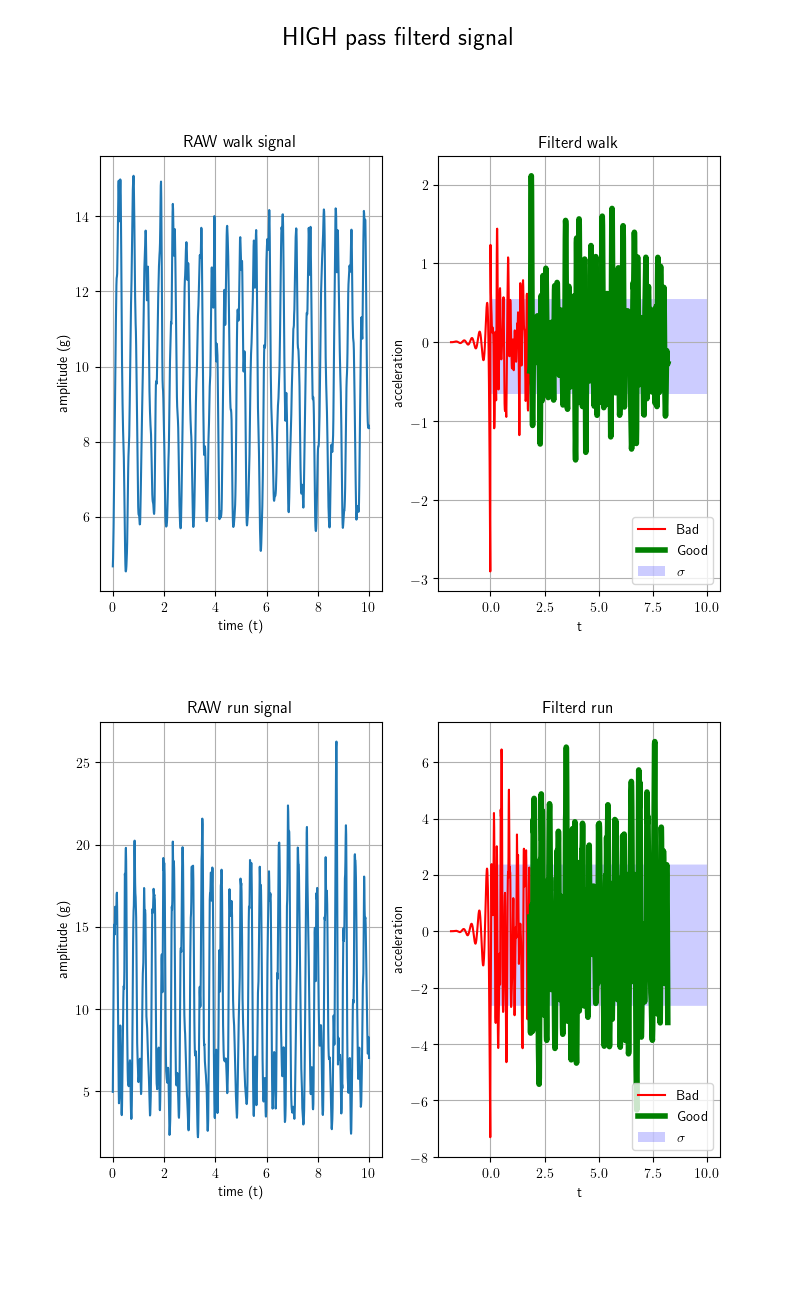
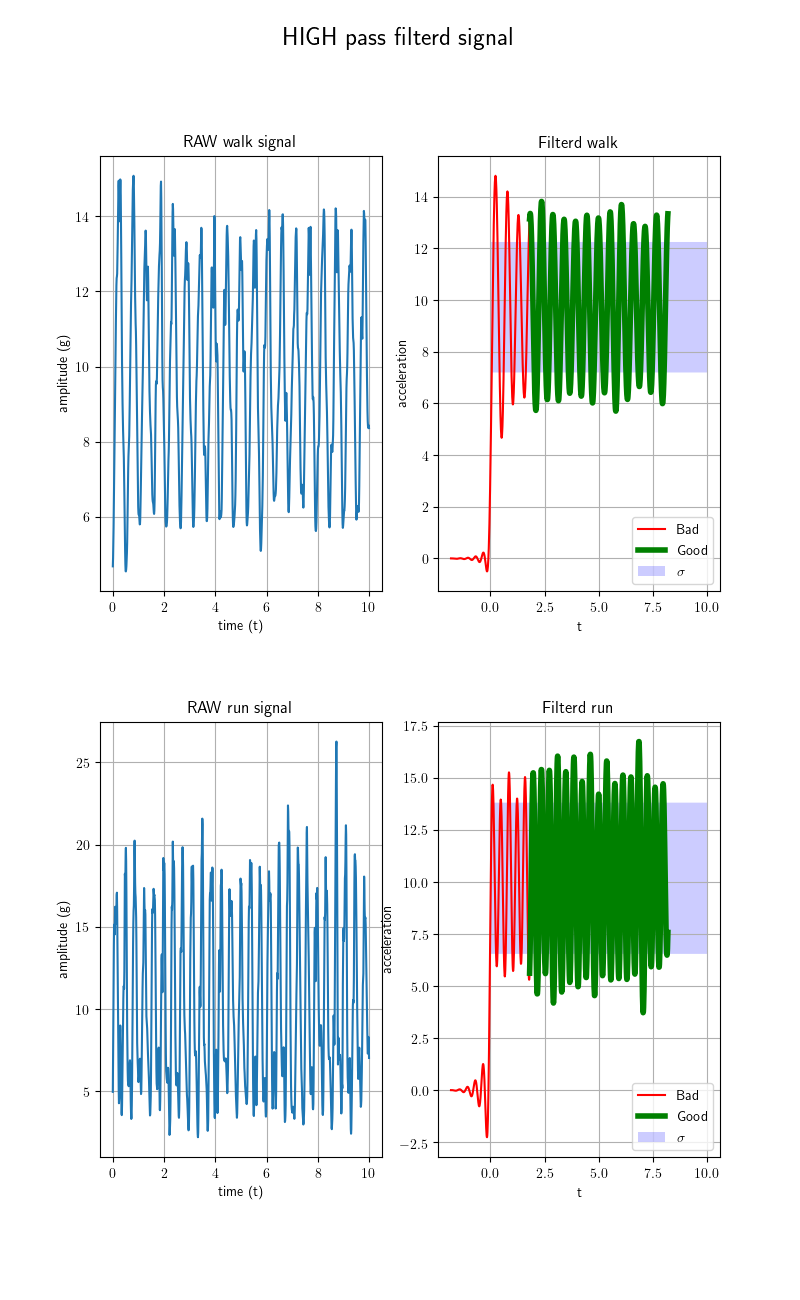
hacks

diff --git a/lti_system.py b/lti_system.py
@@ -16,9 +16,14 @@ class fir_filter:
                 ripple_db: The desierd attenuation in the stopbond, in dB.
                 cutoff_hz: The cutoff frequency of the filter.
         """
-        print(type(signal))
+        if higpas==True:
+            print("--Init highpass --")
+        else:
+            print("--Init lowpass --")
         assert(len(signal) > 1)
-        self._signal = signal
+        # self._signal = signal
+        self._signal = np.pad(signal, (3,6), 'constant')
+        print(np.shape(self._signal))
         self._sample_rate = sample_rate
         self._cutoff_hz = cutoff_hz
         self._ripple_db = ripple_db
@@ -27,24 +32,41 @@ class fir_filter:
         self._t = np.arange(len(signal))/sample_rate
         self._nyq_rate = sample_rate/2
         self._width = with_rate/self._nyq_rate
+        if cutoff_hz/self._nyq_rate % 2 == 0:
+            while self._cutoff_hz/self._nyq_rate % 2 == 0:
+                print(self._cutoff_hz)
+                self._cutoff_hz -= 0.001
+        else:
+            print("not even")
+        print(self._cutoff_hz/self._nyq_rate)
         # Compute the Kaizer parameter for the FIR filter.
-        self._N, self._beta = kaiserord(self._ripple_db,self._width)
-        self._taps = firwin(self._N,cutoff_hz/self._nyq_rate, window=(win,self._beta))
+        self._N = 0
+        count = 0
+        print("ever loop")
+        while self._N%2 == 0:
+            print("ever loop")
+            self._N, self._beta = kaiserord(self._ripple_db,self._width + count)
+            count += 0.000001
+        #self._N, self._beta = kaiserord(self._ripple_db,self._width)
         self._ishigpass = higpas
+        #Spectral inversion if higpass is true
         if self._ishigpass == True:
             print("Higpass filter init")
+            print(self._N)
+            self._taps = firwin(self._N ,self._cutoff_hz/self._nyq_rate ,  pass_zero=False)
             self._taps = -self._taps
             self._taps[self._N//2] += 1
+        else:
+            self._taps = firwin(self._N,cutoff_hz/self._nyq_rate, window=(win,self._beta))
         self._freqz = freqz(self._taps, worN=8000)
         self._h_dB = 20*np.log(np.abs(self._freqz[1]) + 0.00001)
         self._filterd_x = lfilter(self._taps,1.0,signal)
+        print("filterd median ={}".format(np.median(self._filterd_x)))
         delay = 0.5 * (self._N - 1)/self._sample_rate
         self._good_t = self._t[self._N-1:]-delay,
         self._good_signal = self._filterd_x[self._N-1:]
-        self._fir_axis = list()
-        self._fir_axis.append([0.42,0.6, 0.45, 0.25 ])
-        self._fir_axis.append([0.42,0.25,0.45,0.25])
         self._supblot_limmits = list()
+        m,s = self.get_statistics()
 
     def get_statistics(self):
         median = np.median(self._good_signal)
@@ -58,8 +80,6 @@ class fir_filter:
             plt.subplot(subplot)
         # Plot the filterd signal
         m,s = self.get_statistics()
-        #t = np.arange(len(self._good_t))
-        #t = self._good_t[0]
         t = self._t
         hig_sima = t*0 + (m+s)
         low_sima = t*0 + (m-s)
@@ -78,7 +98,7 @@ class fir_filter:
     def plot_raw_signal(self, title="", xlim=False,ylim=False,subplot=False):
         if not isinstance(subplot, bool):
             plt.subplot(subplot)
-        plt.plot(self._t,self._signal)
+        plt.plot(self._t,self._signal[3:-6])
         plt.title(title)
         plt.xlabel("time (t)")
         plt.ylabel("amplitude (g)")
@@ -169,8 +189,9 @@ def plot_filter_results(data:dict, savefig='temp.png', signalnr=5, cutoff_hz=2, 
     # -----------------------------------------------
     # | Run signal raw    | walk singal filterd     |
     # -----------------------------------------------
-    firWalk= fir_filter(data['walk'][signalnr], cutoff_hz=cutoff_hz, higpas=hp)
-    firRun= fir_filter(data['run'][signalnr], cutoff_hz=cutoff_hz, higpas=hp)
+    ripple_db = 60
+    firWalk= fir_filter(data['walk'][signalnr], cutoff_hz=cutoff_hz, higpas=hp, ripple_db=ripple_db)
+    firRun= fir_filter(data['run'][signalnr], cutoff_hz=cutoff_hz, higpas=hp, ripple_db=ripple_db)
     # firWalk.plot_coefficients(321)
     # firWalk.plot_magnitude(322)
     firWalk.plot_raw_signal(title="RAW walk signal", subplot=221)
@@ -210,24 +231,24 @@ if __name__ == '__main__':
     data = data()
     plt.rc('text', usetex=True)
     higpa_cutoff_hz=2.8
-    # --------- Lopass filterd signals------------
-    fig=plt.figure(figsize=(8,13), tight_layout=False)
-    fig.suptitle("LOW pass filterd signal")
-    plot_filter_results(data, savefig="plot_lti_lopasl.png")
+    # # --------- Lopass filterd signals------------
+    # fig=plt.figure(figsize=(8,13), tight_layout=False)
+    # fig.suptitle("LOW pass filterd signal")
+    # plot_filter_results(data, savefig="plot_lti_lopasl.png")
     # --------- Highpass filterd signals------------
     fig=plt.figure(figsize=(8,13), tight_layout=False)
     fig.suptitle("HIGH pass filterd signal", fontsize=18)
     plot_filter_results(data, savefig='plot_lti_higpas.png', cutoff_hz=higpa_cutoff_hz, hp=True)
 
 
-    # --------- Lopass filter plot ------------
-    fig=plt.figure(figsize=(8,13), tight_layout=False)
-    fig.suptitle("LOW pass filter")
-    plot_lit_sytem(data,walk_run='run', signalnr=4, savefig='plot_system_lopass.png')
+    # # --------- Lopass filter plot ------------
+    # fig=plt.figure(figsize=(8,13), tight_layout=False)
+    # fig.suptitle("LOW pass filter")
+    # plot_lit_sytem(data,walk_run='run', signalnr=4, savefig='plot_system_lopass.png')
     # --------- Higpass filter plot ------------
-    fig=plt.figure(figsize=(8,13), tight_layout=False)
-    fig.suptitle("HIGH pass filter", fontsize=18, ha = 'center', va='top')
-    plot_lit_sytem(data,walk_run='run', signalnr=4, savefig='plot_system_higpass.png', cutoff_hz=higpa_cutoff_hz, hp=True)
+    # fig=plt.figure(figsize=(8,13), tight_layout=False)
+    # fig.suptitle("HIGH pass filter", fontsize=18, ha = 'center', va='top')
+    # plot_lit_sytem(data,walk_run='run', signalnr=4, savefig='plot_system_higpass.png', cutoff_hz=higpa_cutoff_hz, hp=True)
 
     # for key in data.keys():
     #     if key == 'walk':
@@ -239,5 +260,5 @@ if __name__ == '__main__':
     #         fir.plot_signals('signals of {}'.format(key),subplot=subplot)
     #         fir.plot_fir_coefficients(gain_subplot=subplot + 1)
 
-    #plt.show()
+    plt.show()
 
